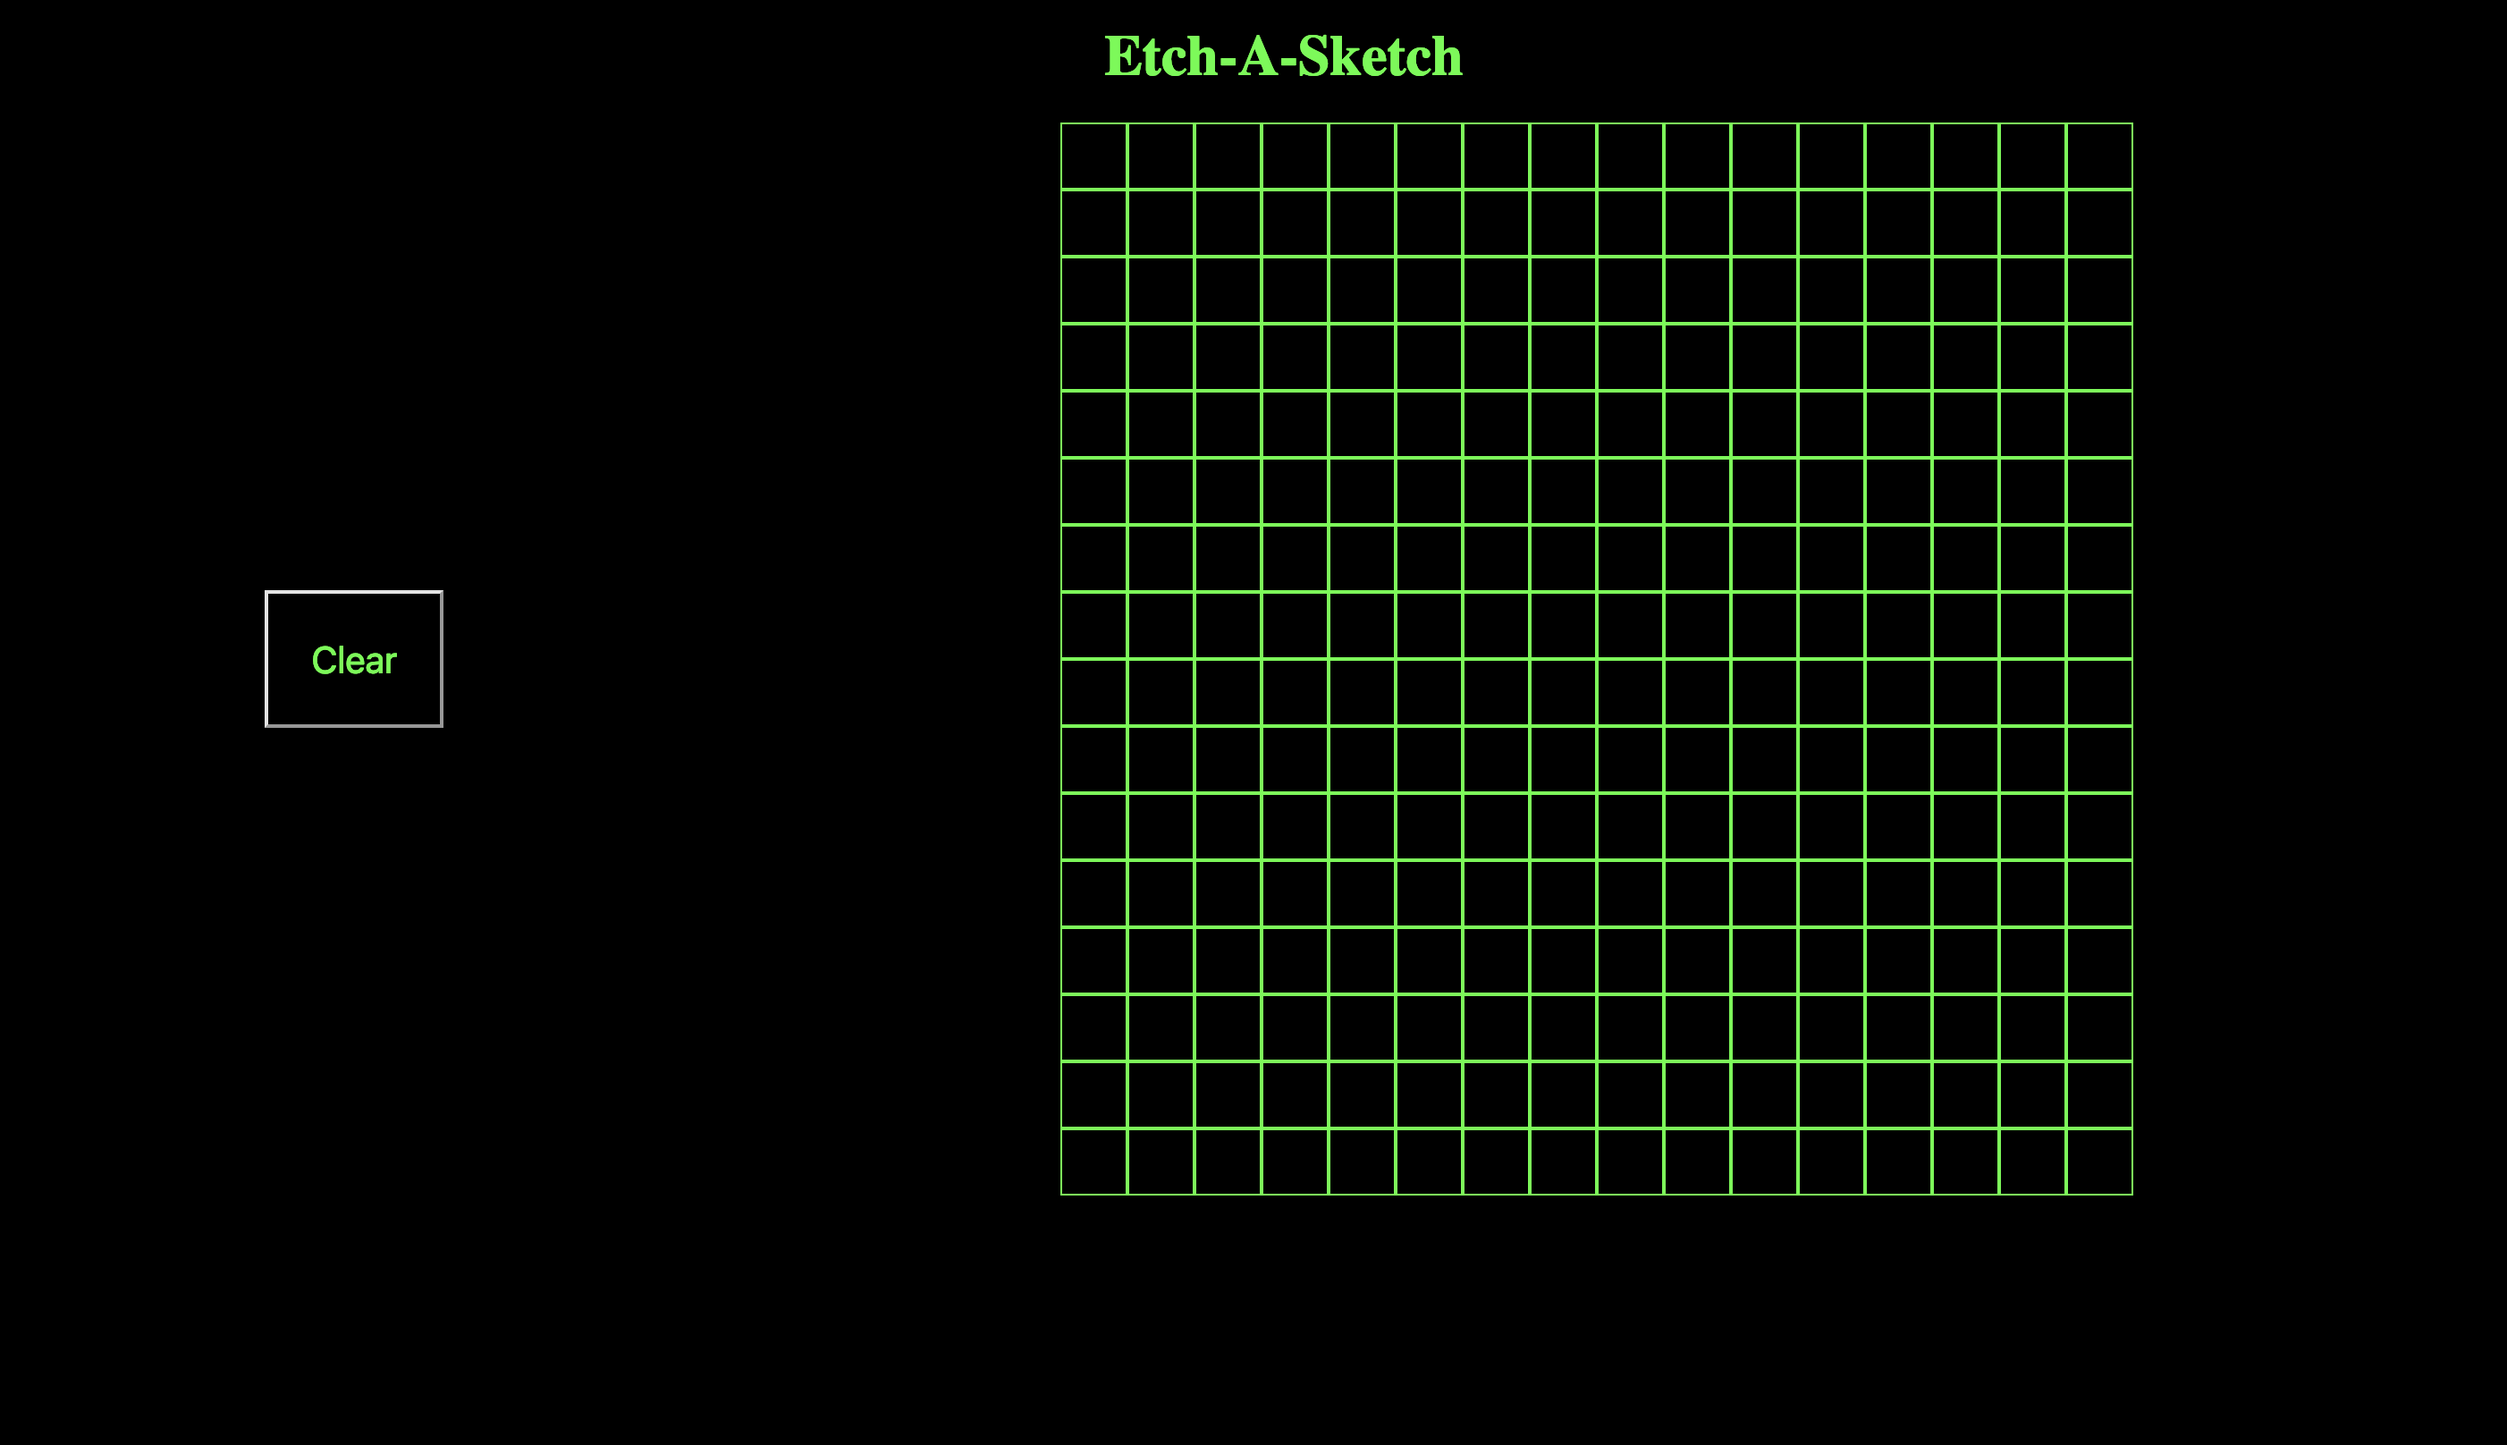
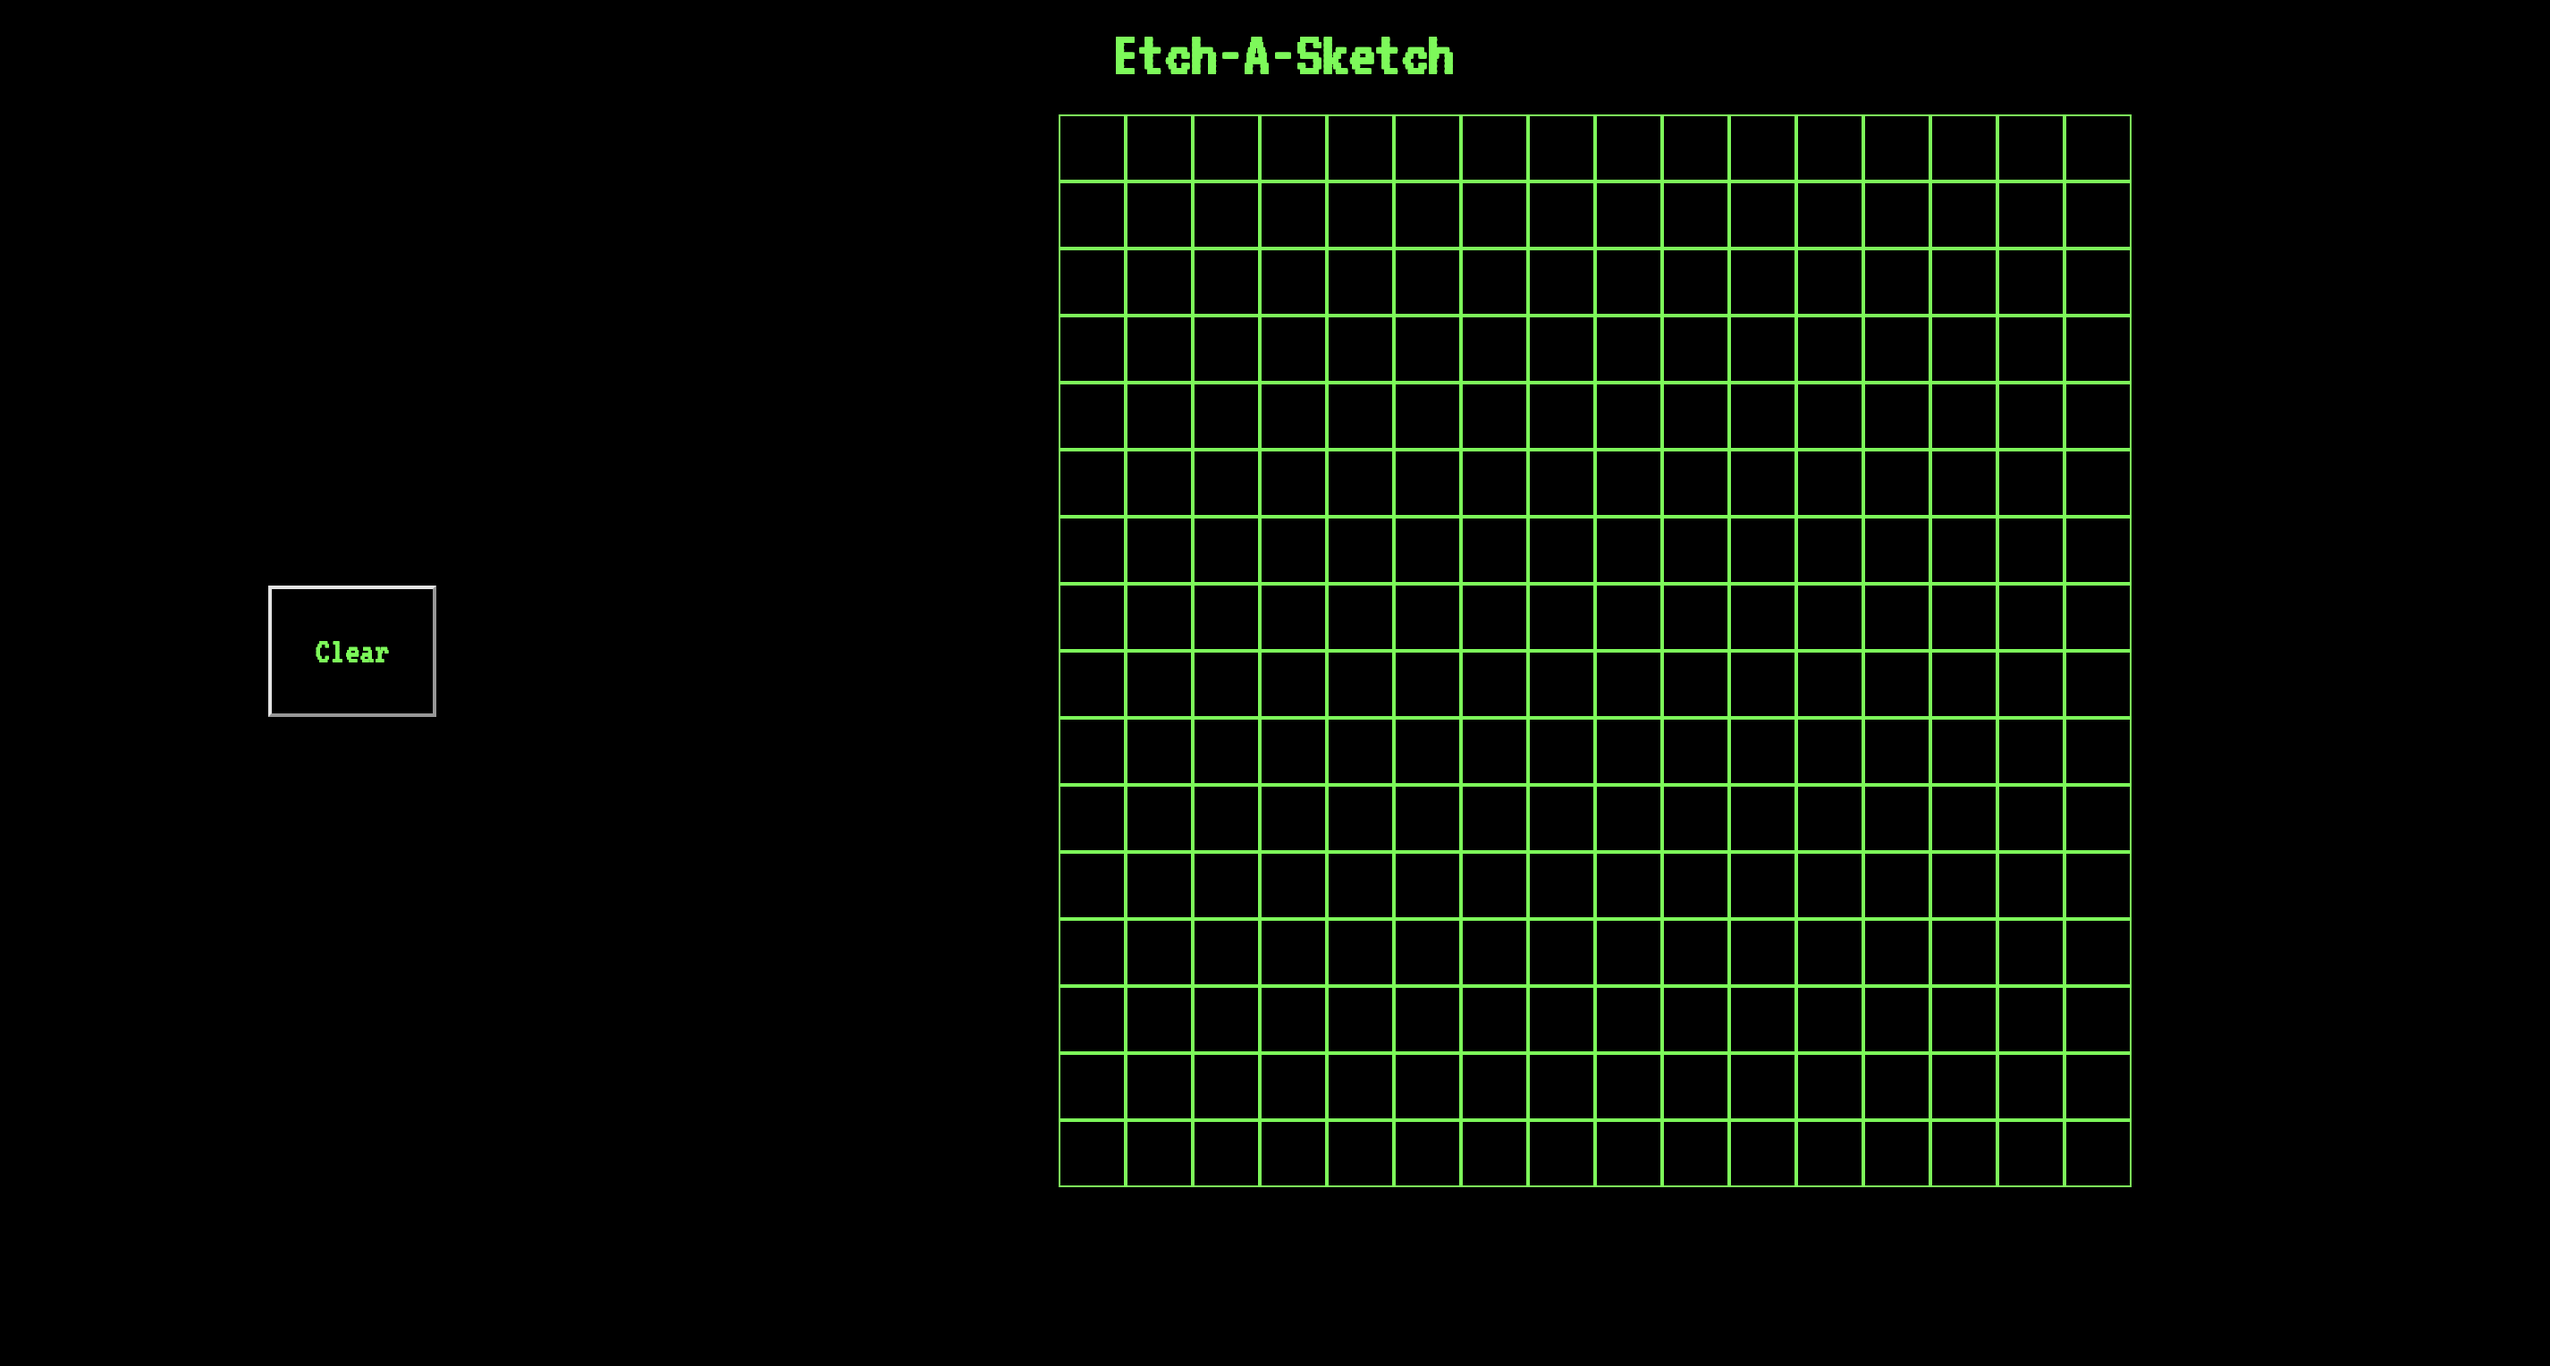
font changed

Changed region(s): [[0.4034, 0.0, 0.8377, 0.8613], [0.0931, 0.3999, 0.1862, 0.5229]]

diff --git a/index.html b/index.html
@@ -7,6 +7,10 @@
     <title>Etch-a-Sketch</title>
     <link rel="stylesheet" href="styles.css">
     <script src="./scripts.js" defer></script>
+    <link rel="stylesheet" href="styles.css">
+    <link rel="preconnect" href="https://fonts.googleapis.com">
+    <link rel="preconnect" href="https://fonts.gstatic.com" crossorigin>
+    <link href="https://fonts.googleapis.com/css2?family=VT323&display=swap" rel="stylesheet"> 
 </head>
 <body>
     <h1>Etch-A-Sketch</h1>

diff --git a/styles.css b/styles.css
@@ -4,10 +4,12 @@
     padding: 0;
     background-color: black;
     color: #33ff33;
+    font-family: 'VT323', monospace;
 }
 h1 {
     text-align: center;
     margin: 15px;
+    font-size: 2.3rem;
 }
 #main {
     display: flex;
